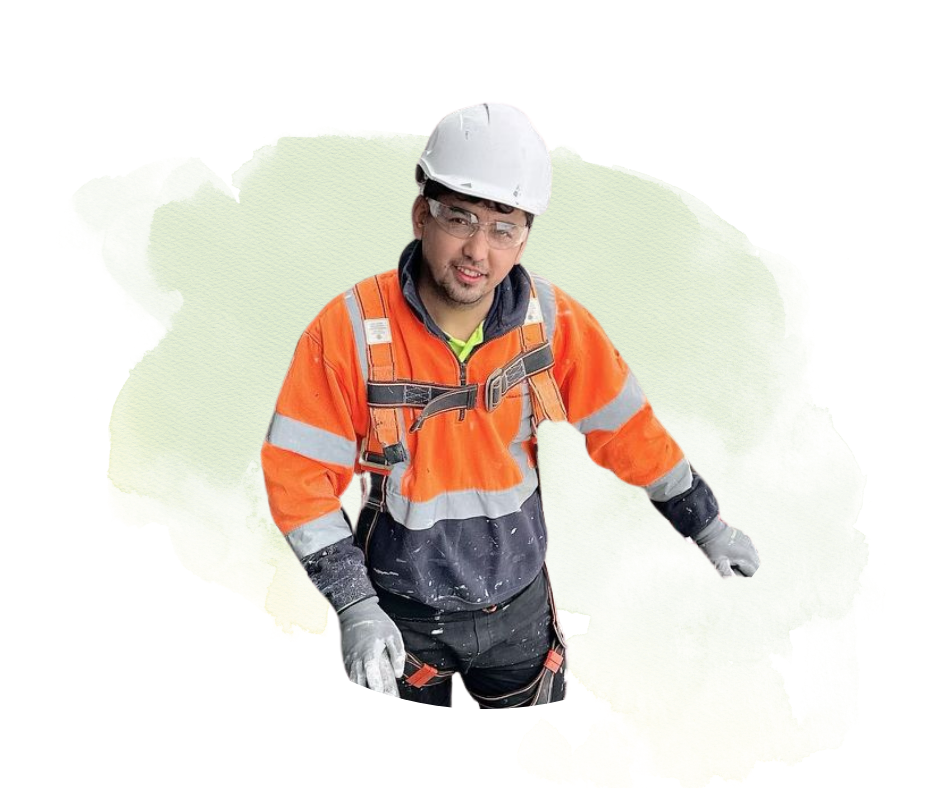
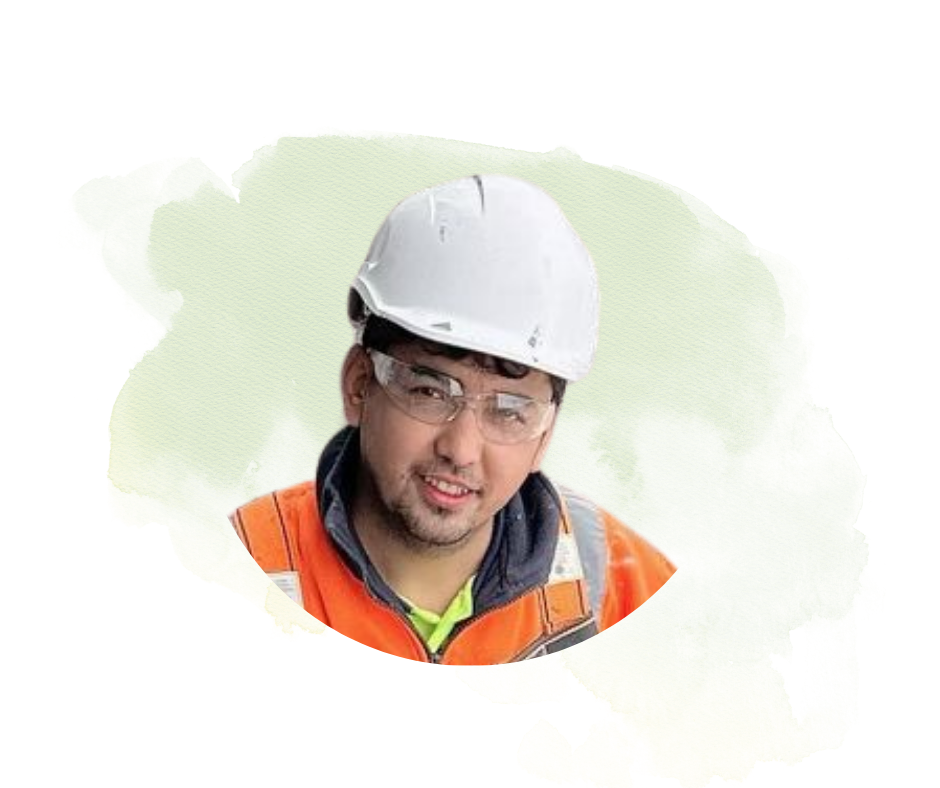
Added another profile

Changed region(s): [[0.2468, 0.1218, 0.833, 0.9137]]

diff --git a/main.py b/main.py
@@ -1,7 +1,7 @@
 from fasthtml.common import *
 from fastapi.staticfiles import StaticFiles
 from styles import styles
-from cards import MENTOR_CARDS
+from cards import MENTOR_CARDS, STORIES  # Import STORIES from cards.py
 
 app, rt = fast_app()
 
@@ -51,7 +51,6 @@ def render_header():
                 href="https://www.migram.au"
             )
         ),        
-        #H1("MIGRAM", _style="text-align: center; margin-bottom: 10px; font-size: 3rem;"),
         P("Empowering migrants of refugee background to thrive and build inclusive communities.", _style="text-align: center; margin-bottom: 10px;"),
         Div(
             A(
@@ -71,24 +70,6 @@ def render_page(custom_body):
             styles,
             render_header(),
             custom_body,
-            Div(
-                Div(
-                    Img(src="img/Farhan.png", alt="My Story Image", _style="width: 100%;"),
-                    P(
-                        "This is the story of how I became a mentor...",
-                        _style="text-align: center; margin: 20px; font-size: 18px;"
-                    ),
-                    A(
-                        "Close",
-                        href="#",
-                        _class="close-modal",
-                        _style="display: block; text-align: center; margin-top: 20px; color: red;"
-                    ),
-                    _class="modal-content",
-                ),
-                _id="my-story-modal",
-                _class="modal",
-            )
         ),
         _style="font-family: Arial, sans-serif; margin: 40px;"
     )
@@ -157,6 +138,49 @@ def get(req):
         render_footer()
     )
 
+@rt("/story/{story_id}")
+def dynamic_story(req, story_id: str):  # Add a type annotation for story_id
+    print(f"Request path: {req.url.path}")
+    print(f"story_id received: '{story_id}'")
+    story = STORIES.get(story_id)
+    print(f"STORIES.get(story_id): {story}")
+    if not story:
+        return Html(
+            render_head("Story Not Found"),
+            render_page(
+                Div(
+                    H2("404 - Story Not Found", _style="text-align: center; margin-bottom: 20px;"),
+                    P(
+                        "The story you are looking for does not exist.",
+                        _style="text-align: center; margin: 20px;"
+                    ),
+                    A(
+                        "Back to Home",
+                        href="/",
+                        _style="display: block; text-align: center; margin-top: 20px; color: blue; text-decoration: underline;"
+                    )
+                )
+            ),
+            render_footer()
+        )
+
+    return Html(
+        render_head(story["title"]),
+        render_navbar(),
+        render_page(
+            Div(
+                H2(story["title"], _style="text-align: center; margin-bottom: 20px;"),
+                Div(story["content"], _style="text-align: justify; margin: 20px;"),
+                A(
+                    "Back to Home",
+                    href="/",
+                    _style="display: block; text-align: center; margin-top: 20px; color: blue; text-decoration: underline;"
+                )
+            )
+        ),
+        render_footer()
+    )
+
 @rt("/about")
 def about(req):
     return Html(
@@ -169,82 +193,6 @@ def about(req):
                     "Migram is a dedicated platform designed to connect migrants from refugee backgrounds with opportunities for low-skilled work. The aim is to help them integrate into their local communities, fostering meaningful connections and participation. At the same time, Migram serves as a way for local communities to support these individuals, creating a network of mutual benefit and empowerment. By bridging the gap, Migram not only provides economic opportunities but also builds a foundation for stronger, more inclusive communities.",
                     _style="text-align: center; font-family: Arial, sans-serif; margin: 20px;"
                 ),
-            )
-        ),
-        render_footer()
-    )
-
-@rt("/my-story-farhan")
-def my_story_farhan(req):
-    return Html(
-        render_head("Farhan’s Journey: From Tragedy to Triumph"),
-        render_navbar(),
-        render_page(
-            Div(
-                H2("Farhan’s Journey: From Tragedy to Triumph", _style="text-align: center; margin-bottom: 20px;"),
-                P(
-                    """Farhan was born in Afghanistan in 1997, a year marked by tragedy. His mother passed away while 
-                    giving birth to him, and at the age of two, he lost his father, who was killed by the Taliban. 
-                    With both parents gone, Farhan's uncle took him to Pakistan, raising him as his own child. For years, 
-                    Farhan believed that his uncle and his uncle’s wife were his biological parents.""",
-                    _style="text-align: justify; margin: 20px;"
-                ),
-                P(
-                    """Growing up in Pakistan, Farhan excelled in his studies, learning both English and computer skills. 
-                    In 2010, his uncle made the dangerous journey to Australia by boat, seeking a better life. Two years later, 
-                    in 2012, Farhan’s uncle began the process of bringing the rest of the family to Australia. The family went 
-                    to the Australian Embassy in Islamabad, Pakistan, where they underwent a DNA test as part of the visa process.""",
-                    _style="text-align: justify; margin: 20px;"
-                ),
-                P(
-                    """It was during this test that Farhan’s life took an unexpected turn. The results revealed that he was not 
-                    biologically related to the family he had always believed was his own. It was then that Farhan learned the 
-                    painful truth—his father had been his uncle all along. This revelation shattered his world.""",
-                    _style="text-align: justify; margin: 20px;"
-                ),
-                P(
-                    """From that point on, Farhan remained in Pakistan, living with his aunt. In 2013, when the wave of violence 
-                    against Hazaras escalated in Pakistan, Farhan had no choice but to flee. His journey took him to Thailand, 
-                    then Malaysia, and finally to Indonesia in 2014. Smuggled into Indonesia, Farhan registered with the United 
-                    Nations High Commissioner for Refugees (UNHCR) as an asylum seeker.""",
-                    _style="text-align: justify; margin: 20px;"
-                ),
-                P(
-                    """For 21 months, Farhan was held in a detention centre in the Indonesian city of Tanjungpinang, where he 
-                    used his English skills to assist the UNHCR as a translator. In time, his asylum status was changed to that 
-                    of a refugee, and he was moved to the city of Batam, where he shared a room with another refugee. Farhan spent 
-                    nearly three years in Batam before being sent back to Tanjungpinang, where he lived from 2018 until 2022.""",
-                    _style="text-align: justify; margin: 20px;"
-                ),
-                P(
-                    """During these difficult years, Farhan learned Bahasa Indonesia and continued helping the UNHCR with 
-                    translation work. His uncle in Australia supported him financially, ensuring that Farhan could survive in 
-                    Indonesia. In 2022, his uncle initiated the process of bringing Farhan to Australia through the Community 
-                    Support Program (CSP).""",
-                    _style="text-align: justify; margin: 20px;"
-                ),
-                P(
-                    """In September 2023, after years of hardship and displacement, Farhan finally arrived in Australia.""",
-                    _style="text-align: justify; margin: 20px;"
-                ),
-                P(
-                    """ "Since I arrived in Australia, I feel like I was born again," Farhan says. He has already obtained his 
-                    driver’s license in Sydney and found work as a house painter. Farhan is deeply grateful for the peace and 
-                    security he has found after years of turmoil. "I owe a lot to Australia for the peaceful life I have now, 
-                    after all these years of struggle." """,
-                    _style="text-align: justify; margin: 20px;"
-                ),
-                P(
-                    """Farhan’s story is one of resilience, courage, and hope—a testament to the strength of the human spirit in 
-                    the face of unimaginable adversity, and to the transformative power of programs like CSP that enable refugees 
-                    to find peace and opportunity in Australia.""",
-                    _style="text-align: justify; margin: 20px;"
-                ),
-                A(
-                    "Back to Home",
-                    href="/",
-                    _style="display: block; text-align: center; margin-top: 20px; color: blue; text-decoration: underline;"
-                )
             )
         ),
         render_footer()

diff --git a/cards.py b/cards.py
@@ -47,17 +47,19 @@ def generate_booking_button(booking_link, margin_bottom="10px"):
         style=f"margin-bottom: {margin_bottom};"
     )
 
+
 def card_3d(
-    title, background, line1, line2, line3, link, show_booking=True, 
+    title, background, line1, line2, line3, story_id, show_booking=True, 
     booking_link="", is_portfolio=False, icon_size=None, 
     button_margin_bottom="5px", space_between_button_and_icon="5px"
 ):
     """Generate a 3D card component with mentor or portfolio details."""
+    story_link = f"/story/{story_id}"  # Dynamically generate story link
     card_body = [
         H3(line1, _class="card-title"),  # Mentor name
         P(line2, _class="card-description"),  # Mentor role/description
-        A("My Story", href=link, _class="my-story-link", _style="margin: 10px 0; text-align: center; display: block;"),
-        #P(line3, _class="card-description-small"),  # Additional details
+        A("My Story", href=story_link, _class="my-story-link", _style="margin: 10px 0; text-align: center; display: block;"),
+        # P(line3, _class="card-description-small"),  # Additional details
     ]
     if show_booking and not is_portfolio:
         card_body.append(generate_booking_button(booking_link, margin_bottom=button_margin_bottom))
@@ -85,20 +87,74 @@ def card_3d(
         _data_description2=line2
     )
 
+
+STORIES = {
+    "farhan": {
+        "title": "Farhan’s Journey: From Tragedy to Triumph",
+        "content": """
+Farhan was born in Afghanistan in 1997, a year marked by tragedy. His mother passed away while giving birth to him, and at the age of two, he lost his father, who was killed by the Taliban. With both parents gone, Farhan's uncle took him to Pakistan, raising him as his own child. For years, Farhan believed that his uncle and his uncle’s wife were his biological parents.
+
+Growing up in Pakistan, Farhan excelled in his studies, learning both English and computer skills. In 2010, his uncle made the dangerous journey to Australia by boat, seeking a better life. Two years later, in 2012, Farhan’s uncle began the process of bringing the rest of the family to Australia. The family went to the Australian Embassy in Islamabad, Pakistan, where they underwent a DNA test as part of the visa process.
+
+It was during this test that Farhan’s life took an unexpected turn. The results revealed that he was not biologically related to the family he had always believed was his own. It was then that Farhan learned the painful truth—his father had been his uncle all along. This revelation shattered his world.
+
+From that point on, Farhan remained in Pakistan, living with his aunt. In 2013, when the wave of violence against Hazaras escalated in Pakistan, Farhan had no choice but to flee. His journey took him to Thailand, then Malaysia, and finally to Indonesia in 2014. Smuggled into Indonesia, Farhan registered with the United Nations High Commissioner for Refugees (UNHCR) as an asylum seeker.
+
+For 21 months, Farhan was held in a detention centre in the Indonesian city of Tanjungpinang, where he used his English skills to assist the UNHCR as a translator. In time, his asylum status was changed to that of a refugee, and he was moved to the city of Batam, where he shared a room with another refugee. Farhan spent nearly three years in Batam before being sent back to Tanjungpinang, where he lived from 2018 until 2022.
+
+During these difficult years, Farhan learned Bahasa Indonesia and continued helping the UNHCR with translation work. His uncle in Australia supported him financially, ensuring that Farhan could survive in Indonesia. In 2022, his uncle initiated the process of bringing Farhan to Australia through the Community Support Program (CSP).
+
+In September 2023, after years of hardship and displacement, Farhan finally arrived in Australia.
+
+"Since I arrived in Australia, I feel like I was born again," Farhan says. He has already obtained his driver’s license in Sydney and found work as a house painter. Farhan is deeply grateful for the peace and security he has found after years of turmoil. "I owe a lot to Australia for the peaceful life I have now, after all these years of struggle."
+
+Farhan’s story is one of resilience, courage, and hope—a testament to the strength of the human spirit in the face of unimaginable adversity, and to the transformative power of programs like CSP that enable refugees to find peace and opportunity in Australia.
+
+
+        """
+    },
+    "waad": {
+        "title": "Waad’s Journey: Building Dreams with Carpentry",
+        "content": """
+        Waad Yousif’s journey is one of resilience, adaptability, and service. Born and raised in Iraq, Waad experienced significant challenges early in life that shaped his determination to create a better future for himself and others. His journey took him from Iraq to Jordan and eventually to Australia, where he now calls Wollongong home.
+
+Waad’s professional career spans multiple industries, reflecting his versatility and strong work ethic. In Iraq, he worked as a sales associate in retail, where he honed his customer service and communication skills. These roles, which ranged from electronics to household goods, taught him the importance of understanding customer needs and providing tailored solutions. After settling in Australia, Waad joined Architectural Hardwood Joinery, where he enhanced his organisational and teamwork skills in a collaborative environment.
+
+Beyond his professional pursuits, Waad is deeply committed to giving back to his community. In Iraq and Jordan, he supported refugees by distributing food and clothing and offering emotional support. In Australia, his volunteer work has continued through roles such as a soccer coach assistant and language interpreter. Fluent in English, Assyrian, and Arabic, Waad uses his language skills to bridge cultural divides and foster inclusivity. He also works with Illawarra Multicultural Services, helping to prepare and deliver meals to students, exemplifying his dedication to community service.
+
+Education has been a cornerstone of Waad’s journey. He has pursued continuous learning, earning a Certificate III in Community Services, completing a Certificate in Spoken and Written English, and participating in leadership training. These achievements highlight his commitment to personal growth and professional development.
+
+Waad’s story is defined by his unwavering perseverance and his ability to connect with others. His experiences have given him a unique perspective on the power of empathy and the importance of community. Today, Waad continues to thrive, inspired by the opportunity to contribute to the vibrant community that has become his home.        
+        """
+    }
+}
+
 MENTOR_CARDS = [
     card_3d(
-        "Mentor 1 | ",
+        "Farhan",
         "img/Farhan.png",
         "Farhan Akhlaqi",
         "Painting Services | ABN 94501731662",  # Mentor role/description
         "",  # Additional info
-        "/my-story-farhan",  # My Story link
+        story_id="farhan",  # Dynamic story ID
+        show_booking=True,
+        booking_link="https://ims.org.au/contact-us/",
+        button_margin_bottom="1px", 
+        space_between_button_and_icon="1px"
+    ),
+    card_3d(
+        "Waad",
+        "img/Waad.png",
+        "Waad Yousif",
+        "Carpentry",  # Mentor role/description
+        "",  # Additional info
+        story_id="waad",  # Dynamic story ID
         show_booking=True,
         booking_link="https://ims.org.au/contact-us/",
         button_margin_bottom="1px", 
         space_between_button_and_icon="1px"
     )
-]
+]    
 
 PORTFOLIO_CARDS = [
 
